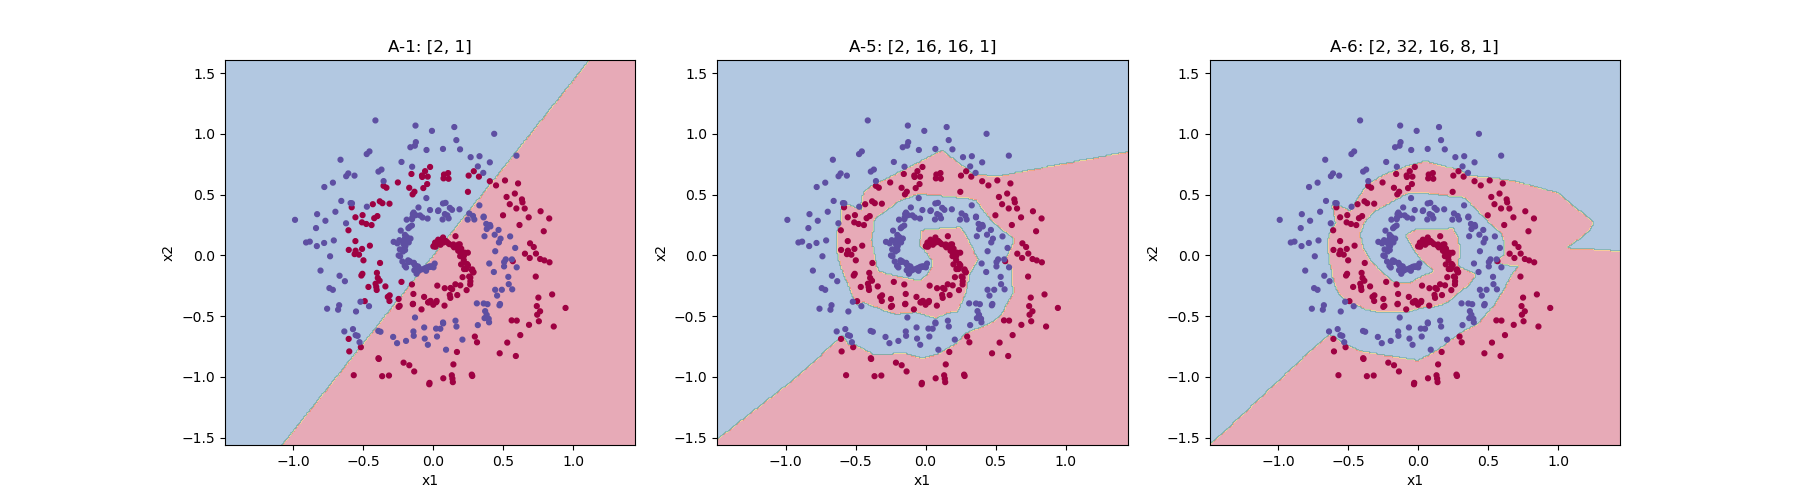
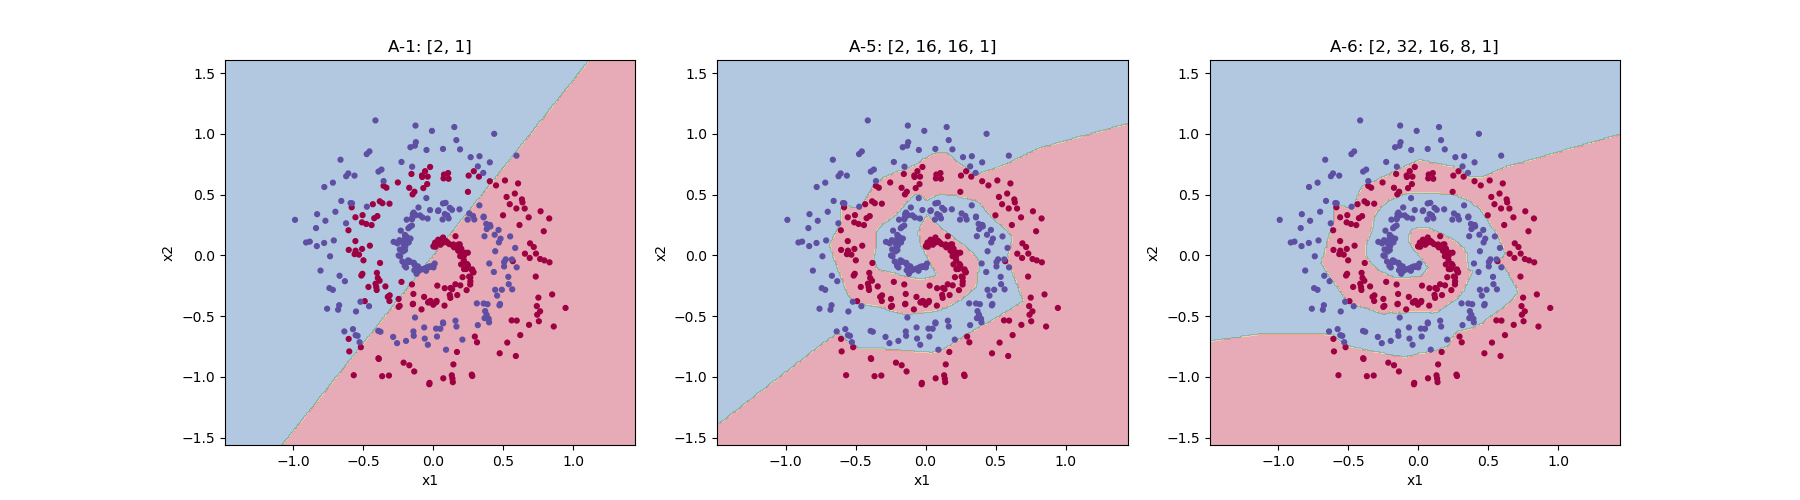
course 4 code notes seed update

diff --git a/src/assignments/03-deep-neural-nn/deep_nn.py b/src/assignments/03-deep-neural-nn/deep_nn.py
@@ -57,7 +57,7 @@ def initialize_parameters_deep(layer_dims,seed=None):
     if (seed != None):
         np.random.seed(seed)
     else:
-        np.random.seed(42)
+        np.random.seed(0)
 
 
 
@@ -622,10 +622,10 @@ def main():
         experiment_A_extra2(X_train,Y_train,X_test,Y_test)
 
     
-    #run_experiment_A_result()
-    #plt.show()
-    #run_experiment_A_extra1()
-    #run_experiment_A_extra2()
+    run_experiment_A_result()
+    plt.show()
+    run_experiment_A_extra1()
+    run_experiment_A_extra2()
 
 
     def run_experiment_B():
@@ -635,7 +635,7 @@ def main():
             name = f"B-{i + 1}"
             print(name,"He 시험 정확도: ", test_accuracy_He[i],"randn 시험 정확도: ", test_accuracy_randn[i])
 
-    run_experiment_B()
+    #run_experiment_B()
 
     
 if __name__ == "__main__":

diff --git a/src/assignments/03-deep-neural-nn/notes.md b/src/assignments/03-deep-neural-nn/notes.md
@@ -99,7 +99,7 @@
 ### 2.4 비용곡선 
 
 
-![Alt text](../../../images/04-deep-nn/deep_cost_train_01.png)
+![Alt text](../../../images/04-deep-nn/deep_cost_train_02.png)
 
 <hr>
 
@@ -111,17 +111,17 @@
 | # | 설정 | 파라미터 수 | 학습 정확도 | 시험 정확도 | 시험 정확도 90% 도달 | 시험 비용 최소 지점 |
 | :-- | :-- | --: | --: | --: | --: | --: |
 | A-1 | `[2, 1]` | 3 | 61.5% | 61.7% | - | 607회 |
-| A-2 | `[2, 16, 1]` | 65 | 69.5% | 68.0% | - | 15,029회 |
-| A-3 | `[2, 64, 1]` | 257 | 77.5% | 74.6% | - | 24,312회 |
-| A-4 | `[2, 256, 1]` | 1,025 | 88.75% | 86.4% | - | 30,000회 |
-| A-5 | `[2, 16, 16, 1]` | 337 | 98.75% | 95.3% | 7,200회 | 9,867회 |
-| A-6 | `[2, 32, 16, 8, 1]` | 769 | 100.0% | 95% | 800회 | 1,294회 |
+| A-2 | `[2, 16, 1]` | 65 | 72.5% | 70.1% | - | 8,223회 |
+| A-3 | `[2, 64, 1]` | 257 | 62.0% | 59.6% | - | 3,080회 |
+| A-4 | `[2, 256, 1]` | 1,025 | 98.5% | 94.1% | 23400 | 29,999회 |
+| A-5 | `[2, 16, 16, 1]` | 337 | 99.75% | 95.6% | 3,200회 | 5,945회 |
+| A-6 | `[2, 32, 16, 8, 1]` | 769 | 100.0% | 95% | 1,200회 | 3,361회 |
 
 <hr>
 
 **A-1, A-5, A-6 결정경계**
 
-![Alt text](../../../images/04-deep-nn/A-1,A-5,A-6%20결정경계3.png)
+![Alt text](../../../images/04-deep-nn/A-1,A-5,A-6%20결정경계2.png)
 
 
 <hr>
@@ -131,8 +131,8 @@
 
 | # | 학습 정확도 | 시험 정확도 | 시험 정확도 90% 도달 | 시험 비용 최소 지점 |
 | :-- | --: | --: | --: | --: |
-| A-4 | 88.75% | 86.4% | -회 | 30000회 |
-| A-4 추가 실험 | 99.75% | 94.5% | 31,300회 | 83,100회 |
+| A-4 | 88.75% | 86.4% | 23,400회 | 30,000회 |
+| A-4 추가 실험 | 99.75% | 94.5% | 23,400회 | 30,745회 |
 
 <hr>
 
@@ -141,7 +141,7 @@
 | # | seed 0 | seed 1 | seed 2 | 
 | :-- | --: | --: | --: | 
 | A-3 | 65.0% | 72.6% | 69.1% |
-| A-3 | 94.9% | 95.3% | 94.8% |
+| A-5 | 94.9% | 95.3% | 94.8% |
 
 
 <hr>
